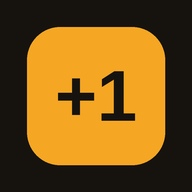
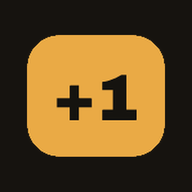
Add files via upload

diff --git a/sw.js b/sw.js
@@ -1,7 +1,7 @@
 // Service worker mínimo. Cachea solo los archivos estáticos propios para que la
 // app abra rápido y funcione sin conexión a nivel de interfaz. Nunca cachea el
 // SDK de Firebase ni las peticiones a Firestore/Auth (esas van siempre a la red).
-const CACHE = "carga-v23";
+const CACHE = "carga-v24";
 const ASSETS = [
   "./",
   "./index.html",